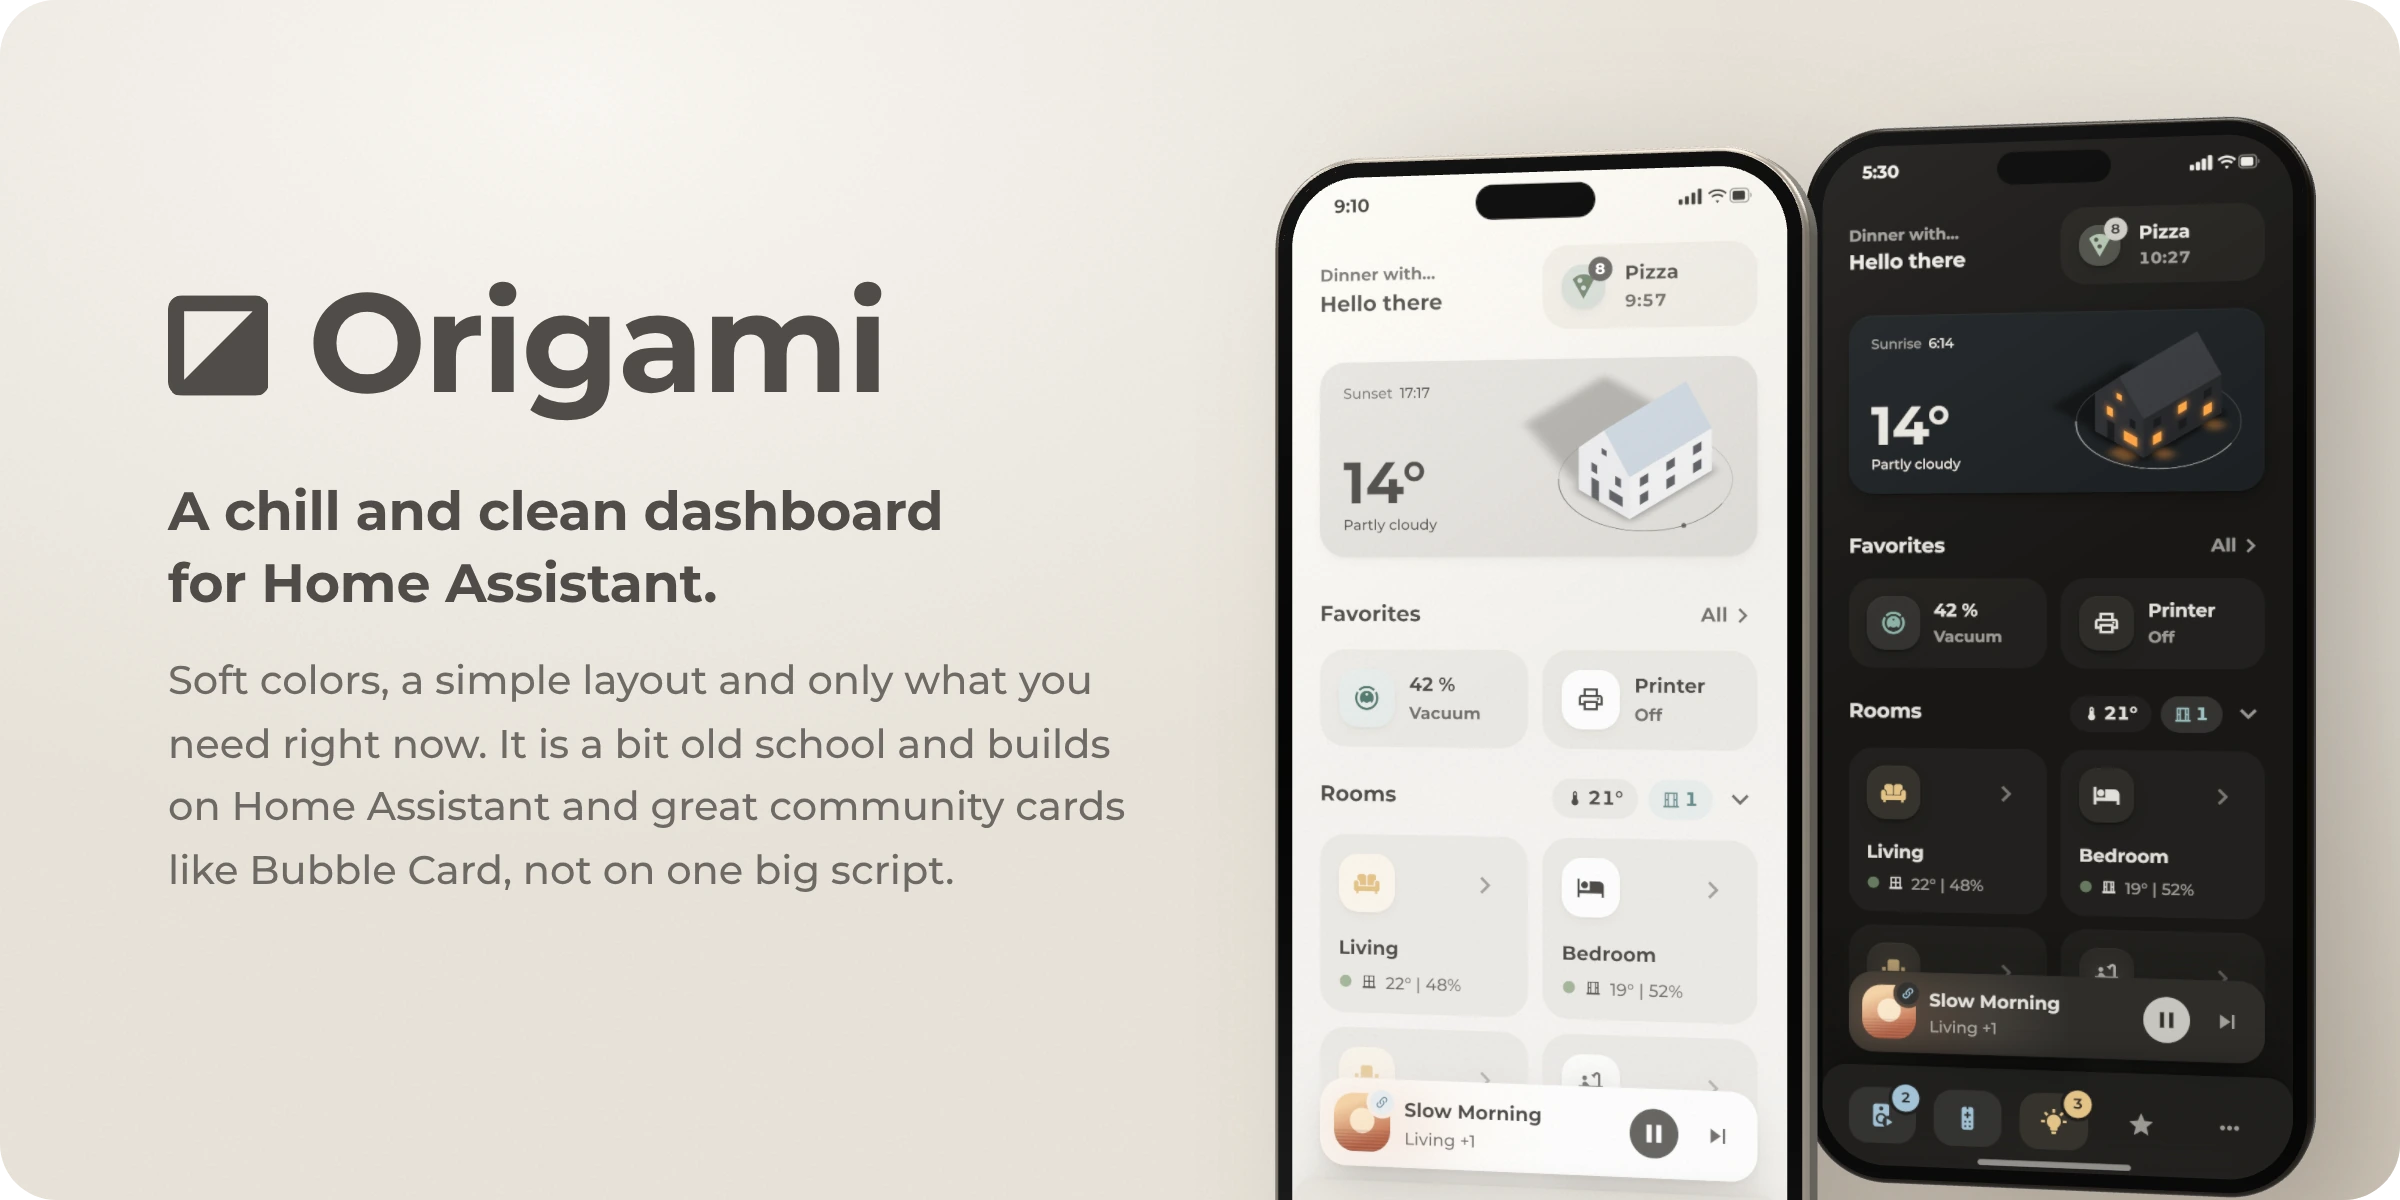
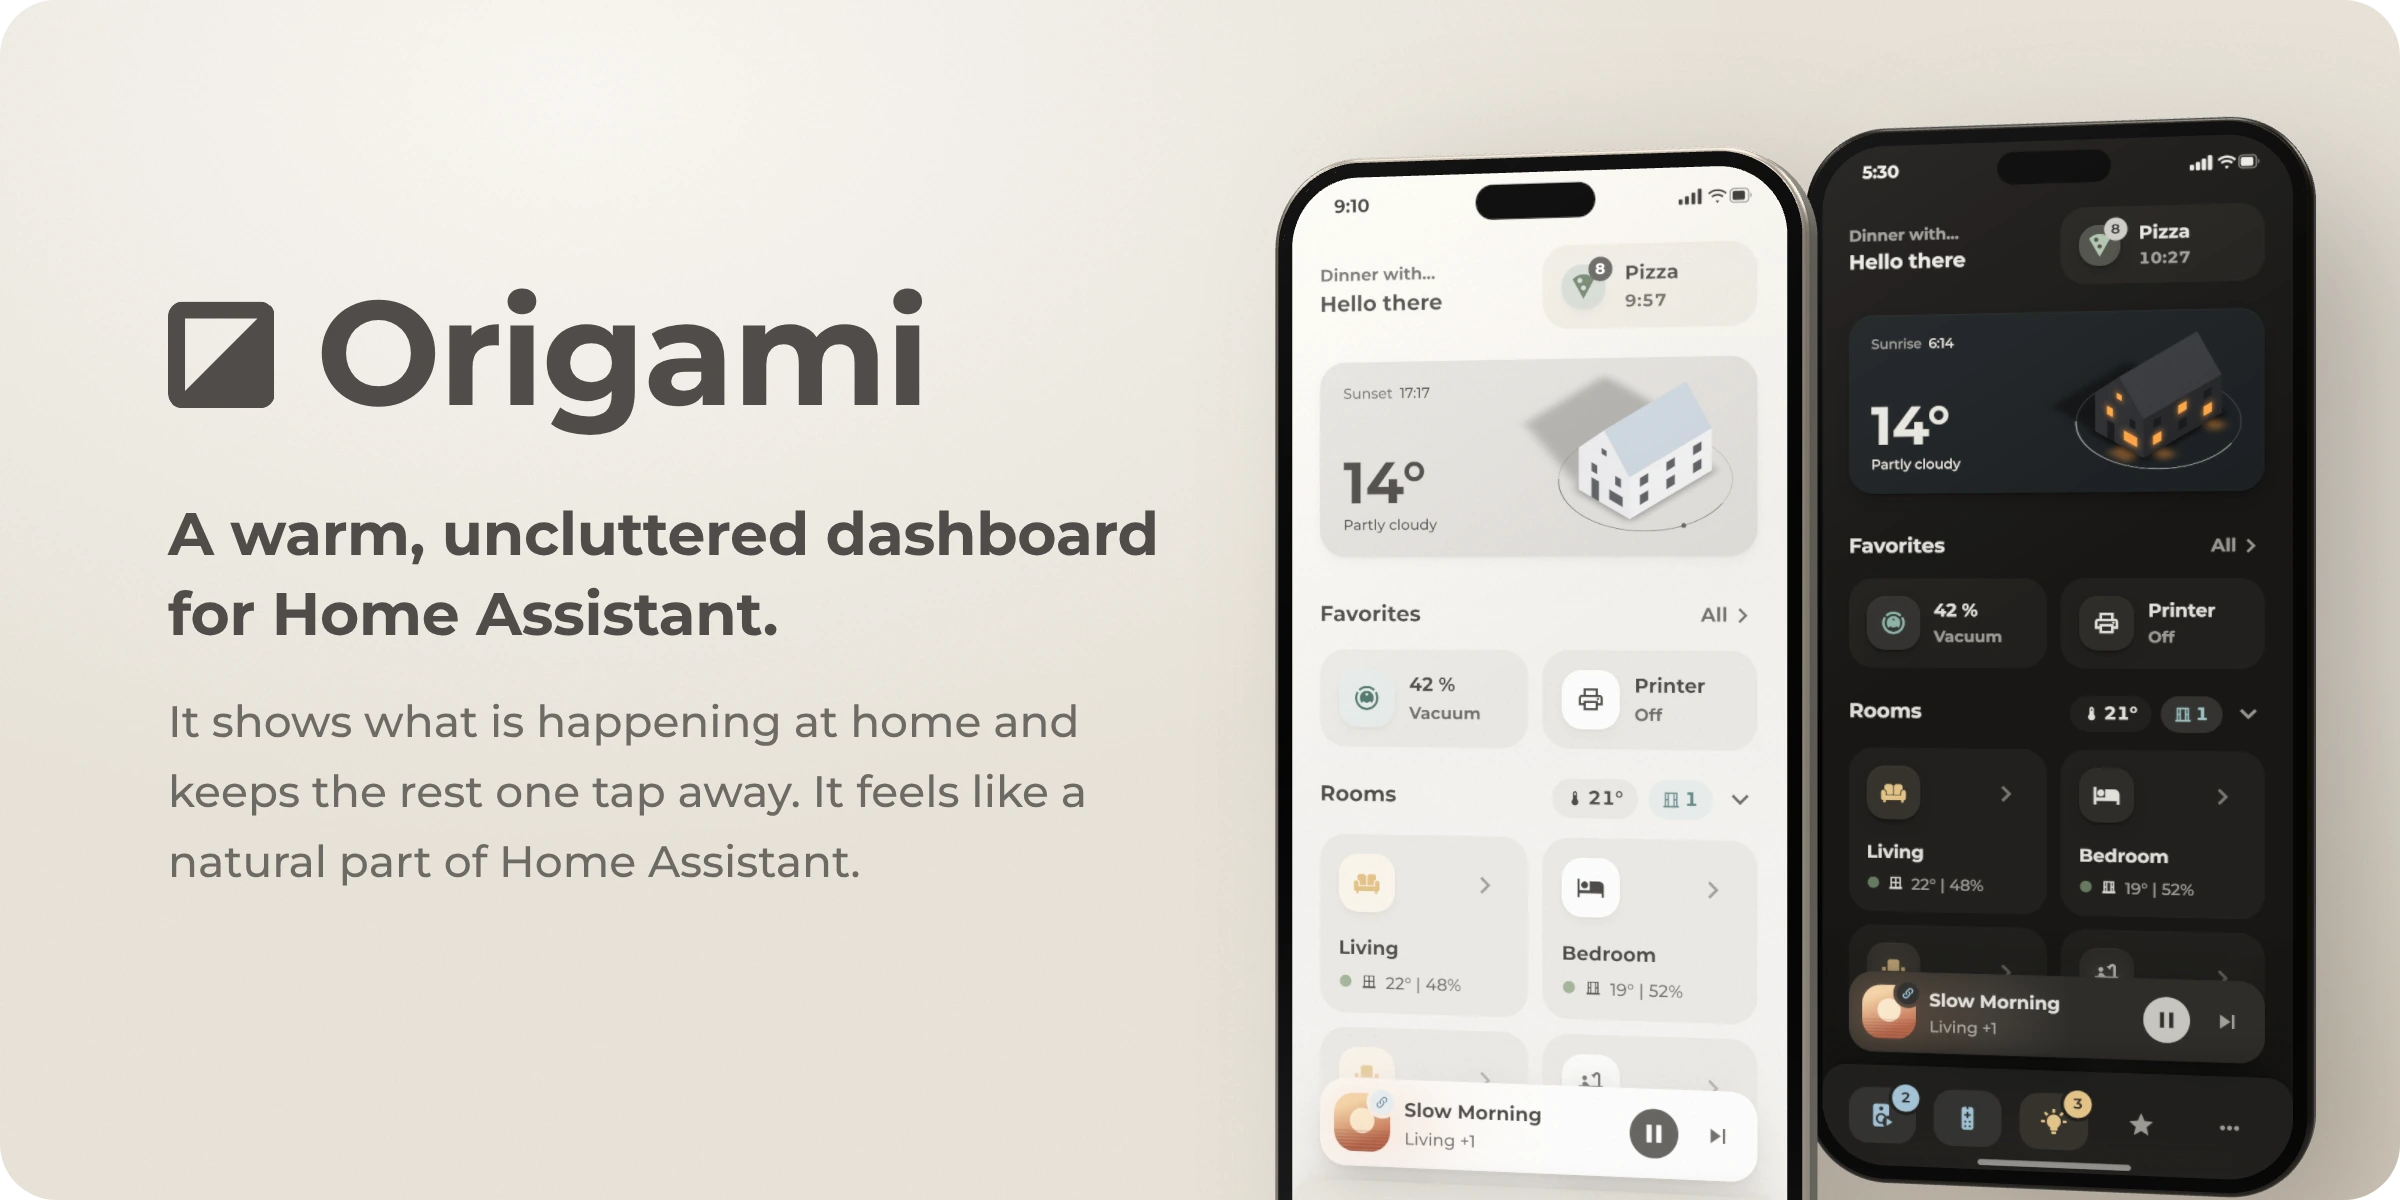
Rewrite the header image's text
The text is shorter and set a little larger, and it describes the
design and the approach without naming cards.

Changed region(s): [[0.0625, 0.4008, 0.5, 0.74], [0.0625, 0.2158, 0.4062, 0.37]]

diff --git a/README.md b/README.md
@@ -1,4 +1,4 @@
-<img alt="Origami, a chill and clean dashboard for Home Assistant, on two phones in light and dark mode" src="https://raw.githubusercontent.com/hazymorning/origami/main/images/hero.webp">
+<img alt="Origami, a warm and uncluttered dashboard for Home Assistant, on two phones in light and dark mode" src="https://raw.githubusercontent.com/hazymorning/origami/main/images/hero.webp">
 
 <a href="https://github.com/hazymorning/origami/releases/latest"><img alt="Latest release" src="https://img.shields.io/github/v/release/hazymorning/origami?label=Release&color=6A8778&labelColor=181715"></a>
 <a href="https://my.home-assistant.io/redirect/hacs_repository/?owner=hazymorning&repository=origami&category=theme"><img alt="HACS custom repository" src="https://img.shields.io/badge/HACS-Custom-6A8778?labelColor=181715"></a>
